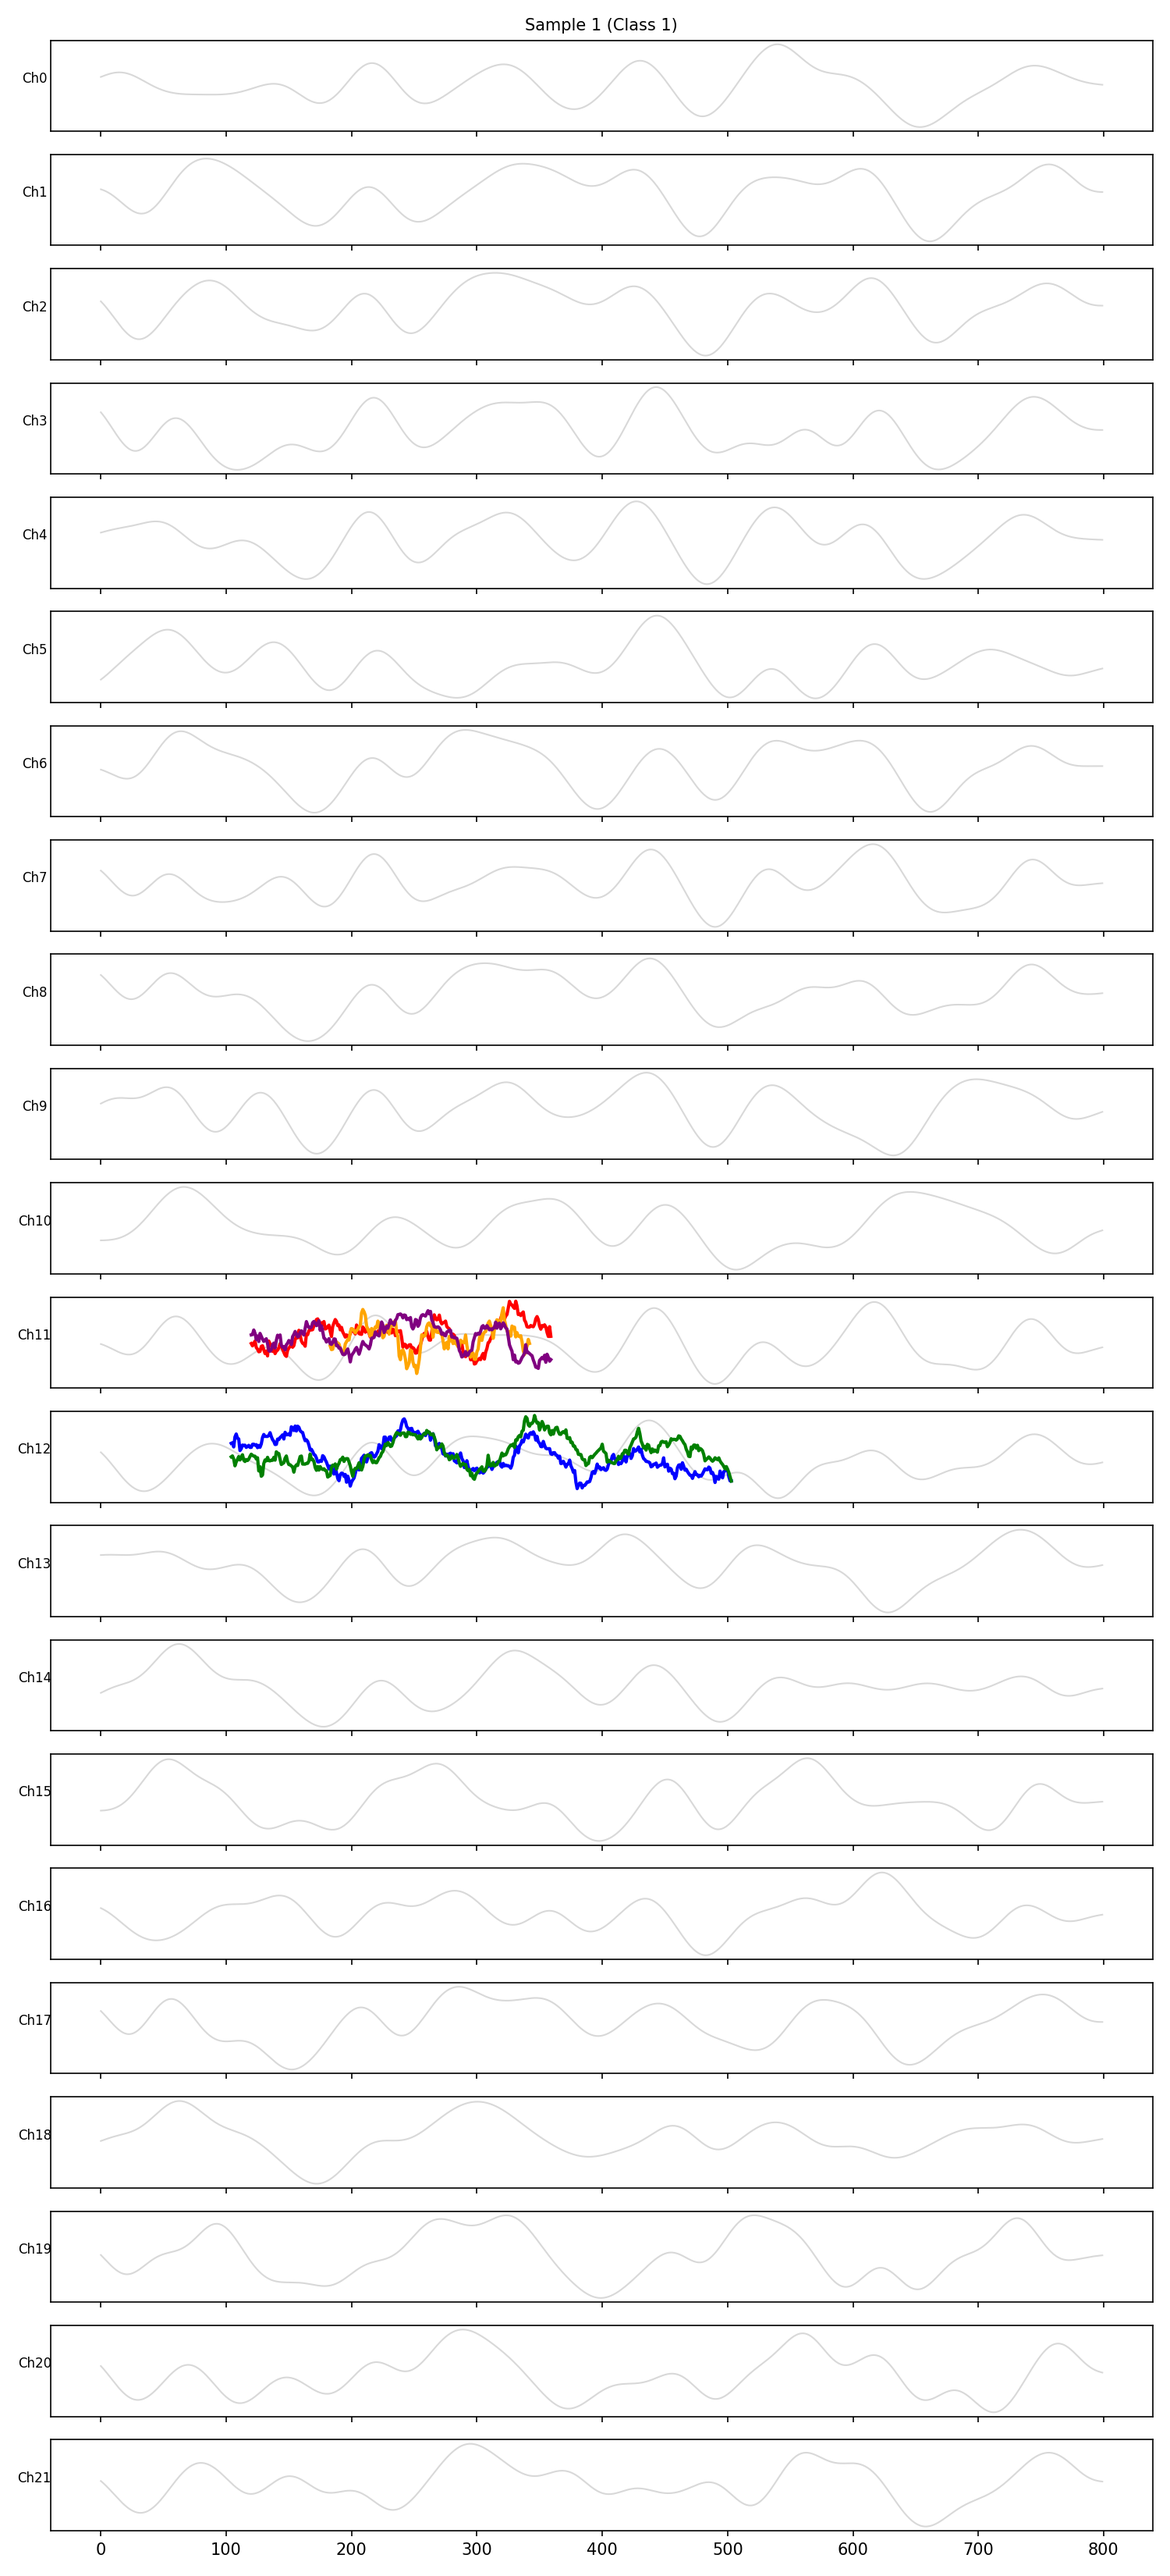
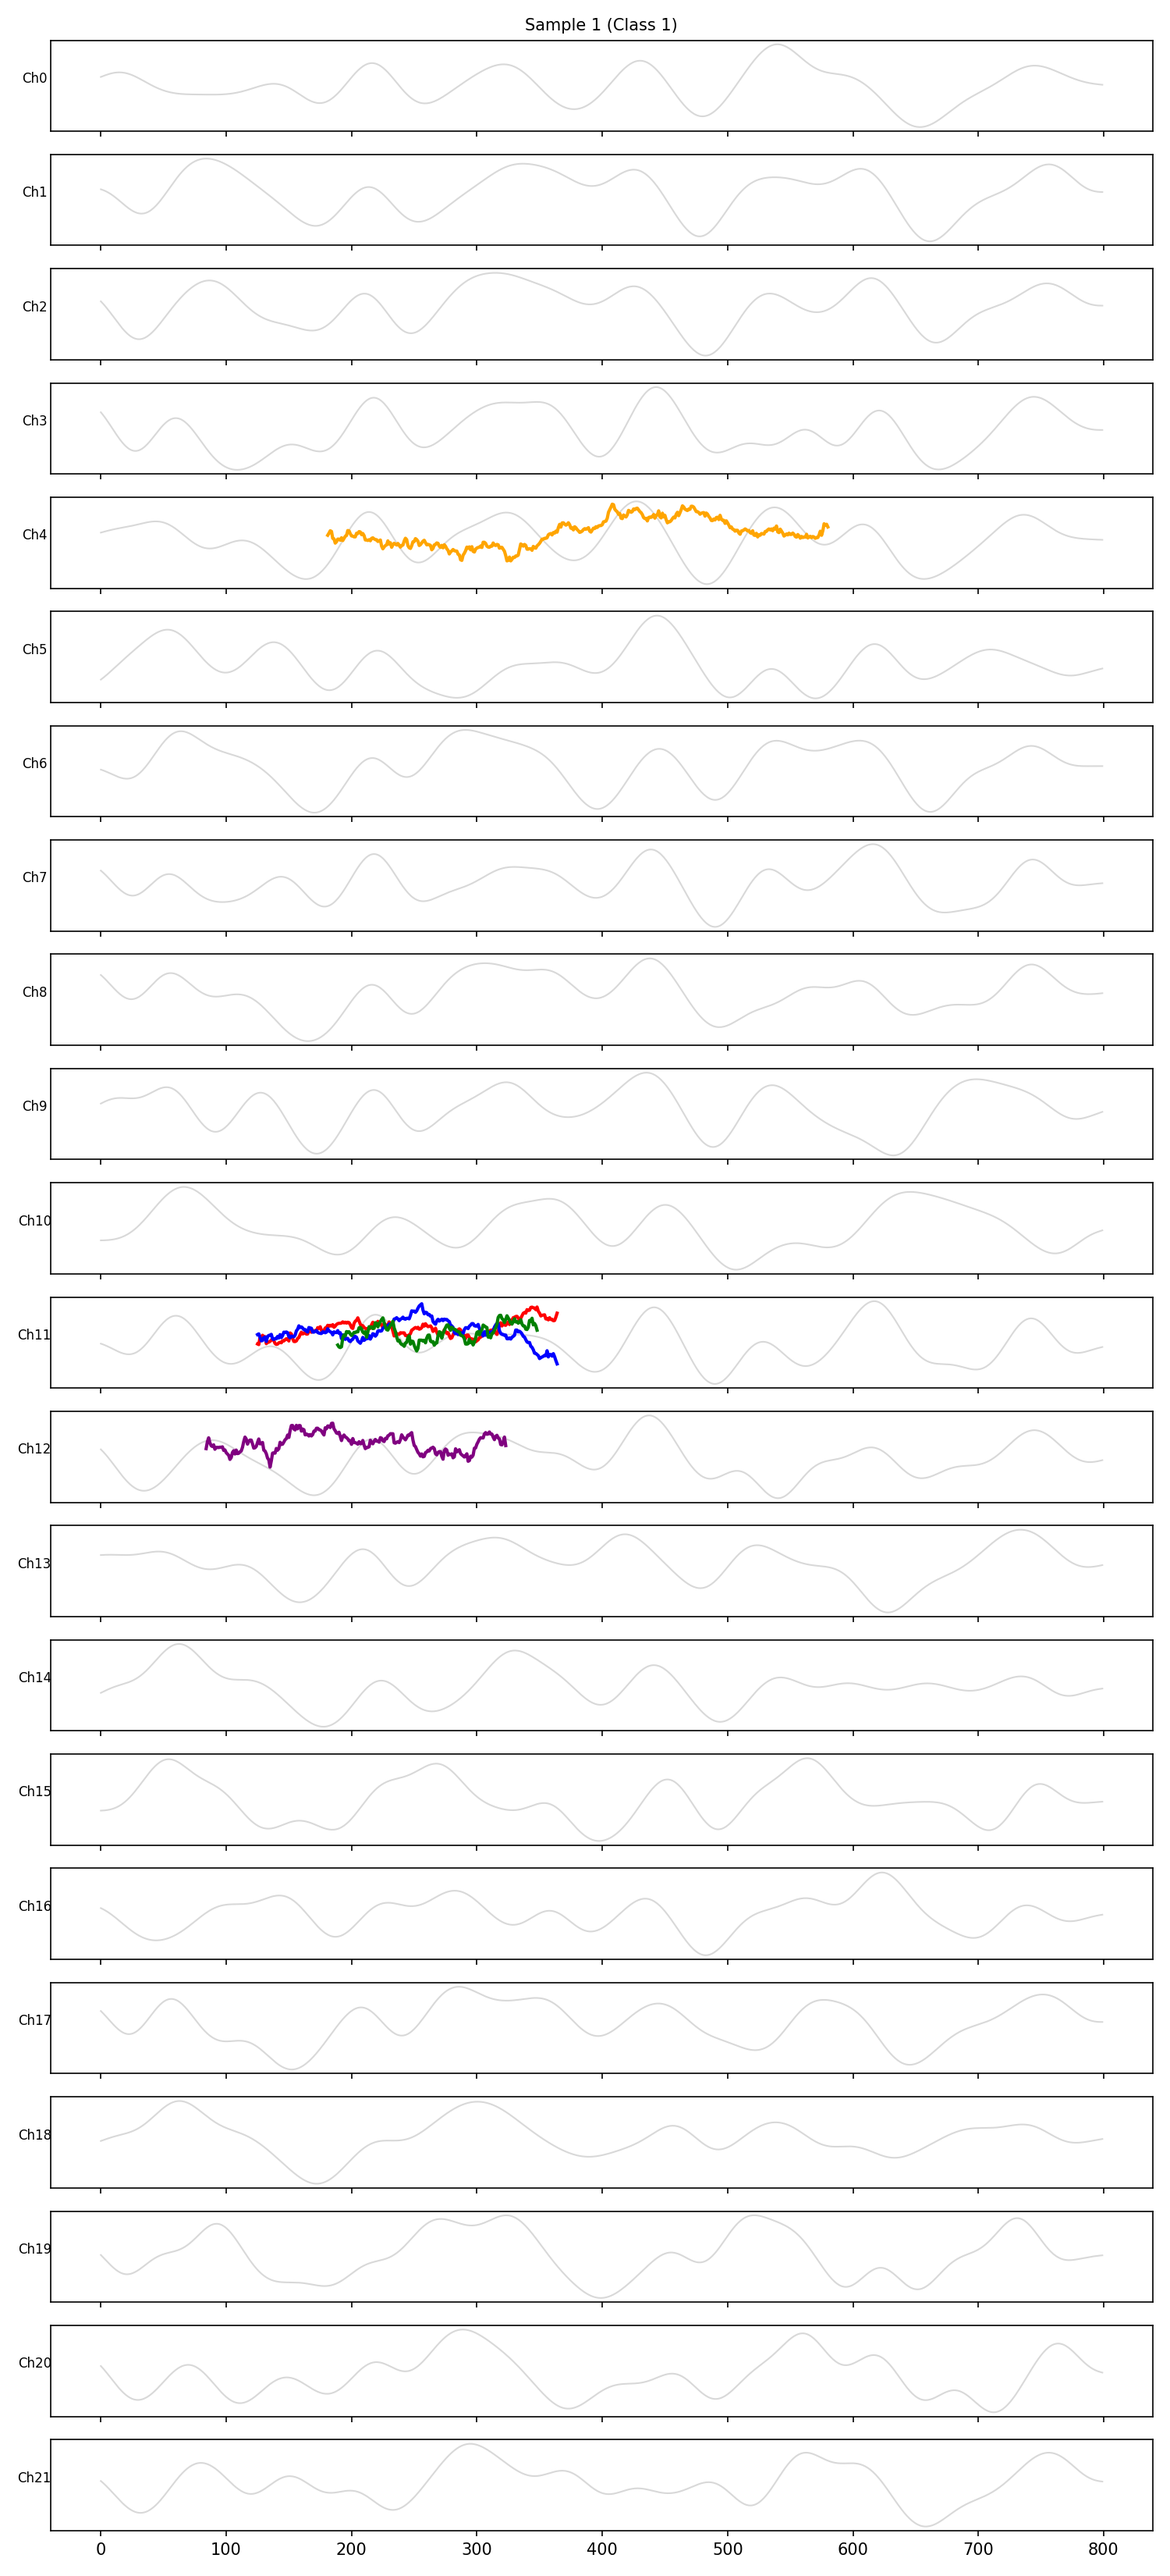
一个更合适的dataloader

Changed region(s): [[0.184, 0.4994, 0.6133, 0.593], [0.368, 0.5618, 0.4293, 0.593]]

diff --git a/dataloader.py b/dataloader.py
@@ -6,151 +6,194 @@ import warnings
 import logging
 
 warnings.filterwarnings('ignore')
+
+# 配置 Logger
+logging.basicConfig(level=logging.INFO, format='%(asctime)s - %(name)s - %(levelname)s - %(message)s')
 logger = logging.getLogger(__name__)
 
 
-def mean_std(train_data):
-    """Compute mean and std for normalization as in code segment 1."""
-    m_len = np.mean(train_data, axis=2)
-    mean = np.mean(m_len, axis=0)
-    s_len = np.std(train_data, axis=2)
-    std = np.max(s_len, axis=0)
+def compute_stats_channel_wise(train_data):
+    """
+    仅根据训练数据计算均值和标准差。
+    假设 train_data 形状为 (Samples, Time, Channels)
+    我们希望对每个 Channel 进行标准化，因此跨 Samples(0) 和 Time(1) 聚合。
+    """
+    # 均值 shape: (Channels,)
+    mean = np.mean(train_data, axis=(0, 1))
+    # 标准差 shape: (Channels,)
+    std = np.std(train_data, axis=(0, 1))
+
+    # 防止除以0，将极小的std替换为1
+    std[std < 1e-8] = 1.0
+
     return mean, std
 
 
-def mean_std_transform(data, mean, std):
-    """Apply mean-std normalization as in code segment 1."""
+def apply_normalization(data, mean, std):
+    """
+    应用标准化: (Data - Mean) / Std
+    利用广播机制 (Broadcasting) 自动处理维度。
+    Data: (N, T, C), Mean: (C,), Std: (C,)
+    """
     return (data - mean) / std
 
 
 def load(config):
     Data = {}
     fold_num = config['fold_num']
+    # 确保 fold_num 是 int
+    if fold_num is None:
+        raise ValueError("Config 中必须包含 'fold_num'")
+    fold_num = int(fold_num)
+
     problem = config['data_dir'].split('/')[-1]
+    # 文件名建议加上 fold 信息，避免不同 fold 覆盖同一文件
     npy_path = os.path.join(config['data_dir'], f"{problem}_n2_fold{fold_num}.npy")
 
-    # 检查是否已存在预处理数据
+    # --- 1. 检查是否存在预处理文件 ---
     if os.path.exists(npy_path):
-        logger.info("Loading preprocessed data ...")
+        logger.info(f"Loading preprocessed data from {npy_path} ...")
         Data_npy = np.load(npy_path, allow_pickle=True)
-        Data['max_len'] = Data_npy.item().get('max_len')
-        Data['X_train'] = Data_npy.item().get('X_train')
-        Data['y_train'] = Data_npy.item().get('y_train')
-        Data['X_val'] = Data_npy.item().get('X_val')
-        Data['y_val'] = Data_npy.item().get('y_val')
-        Data['X_test'] = Data_npy.item().get('X_test')
-        Data['y_test'] = Data_npy.item().get('y_test')
-        # if problem == 'PREP':
-        #     Data['X_train'] = Data['X_train'].transpose(0, 2, 1)
-        #     Data['X_val'] = Data['X_val'].transpose(0, 2, 1)
-        #     Data['X_test'] = Data['X_test'].transpose(0, 2, 1)
+        item = Data_npy.item()
 
-        logger.info(f"{len(Data['y_train'])} samples will be used for training")
-        logger.info(f"{len(Data['y_val'])} samples will be used for validation")
-        logger.info(f"{len(Data['y_test'])} samples will be used for testing")
+        Data['max_len'] = item.get('max_len')
+        Data['X_train'] = item.get('X_train')
+        Data['y_train'] = item.get('y_train')
+        Data['X_val'] = item.get('X_val')
+        Data['y_val'] = item.get('y_val')
+        Data['X_test'] = item.get('X_test')
+        Data['y_test'] = item.get('y_test')
+
+        # 兼容性加载（如果存在全量训练数据）
+        Data['All_train_data'] = item.get('All_train_data')
+        Data['All_train_label'] = item.get('All_train_label')
+
+        logger.info(f"Loaded: Train({len(Data['y_train'])}), Val({len(Data['y_val'])}), Test({len(Data['y_test'])})")
 
     else:
-        logger.info("Loading and preprocessing data ...")
-        # 扩大倍数   任务态VFT  n=2  静息态PREP n=4
-        n = 4
+        # --- 2. 加载原始 Excel 数据 ---
+        logger.info("Loading and preprocessing data from Excel files ...")
+
+        # 参数设置
+        n = 2  # 扩增倍数/降采样因子
         adhd_dir = os.path.join(config['data_dir'], "ADHD")
         hc_dir = os.path.join(config['data_dir'], "HC")
 
-        # 读取所有Excel文件
-        adhd_files = [os.path.join(adhd_dir, f) for f in os.listdir(adhd_dir) if f.endswith('.xlsx')]
-        hc_files = [os.path.join(hc_dir, f) for f in os.listdir(hc_dir) if f.endswith('.xlsx')]
+        # 读取文件列表
+        adhd_files = sorted([os.path.join(adhd_dir, f) for f in os.listdir(adhd_dir) if f.endswith('.xlsx')])
+        hc_files = sorted([os.path.join(hc_dir, f) for f in os.listdir(hc_dir) if f.endswith('.xlsx')])
 
-        # 加载数据并分配标签
         dataframes = []
         labels = []
-        group_ids = []  # NEW: 用于跟踪每个样本的组标识
+        group_ids = []  # 用于 GroupKFold，防止同一人数据泄露
 
-        # 处理 ADHD 数据 (label = 1)
+        # 加载 ADHD (Label=1)
         for idx, file in enumerate(adhd_files):
             df = pd.read_excel(file)
-            dataframes.append(df)
-            labels.append(1)  # ADHD标签为1
-            group_ids.append(idx)  # NEW: 为每个 ADHD 文件分配唯一 group_id
+            dataframes.append(df.values)  # 转为numpy array
+            labels.append(1)
+            group_ids.append(idx)  # 唯一ID
 
-        # 处理 HC 数据 (label = 0)
-        for idx, file in enumerate(hc_files, len(adhd_files)):  # NEW: 从 len(adhd_files) 开始继续编号
+        # 加载 HC (Label=0)
+        # Group ID 继续累加，不与 ADHD 重复
+        start_id = len(adhd_files)
+        for idx, file in enumerate(hc_files):
             df = pd.read_excel(file)
-            dataframes.append(df)
-            labels.append(0)  # HC标签为0
-            group_ids.append(idx)  # NEW: 为每个 HC 文件分配唯一 group_id
+            dataframes.append(df.values)
+            labels.append(0)
+            group_ids.append(start_id + idx)
 
-        # 转换为numpy数组
-        feature = np.array(dataframes)
+        # 转换为 numpy 格式
+        # 假设所有 excel 形状相同，或者这里需要 padding (目前代码假设形状一致)
+        feature_raw = np.array(dataframes)
+        # 当前 shape: (Samples, Time, Features)
+
         labels = np.array(labels)
-        group_ids = np.array(group_ids)  # NEW: 转换为 numpy 数组
-        logger.info(f"feature 原始shape：{feature.shape}")
+        group_ids = np.array(group_ids)
 
-        # 获取原始数据的形状
-        n_samples, n_time, n_features = feature.shape
+        logger.info(f"Raw feature shape: {feature_raw.shape}")
+        n_samples, n_time, n_features = feature_raw.shape
 
-        # 计算可被n整除的最大时间长度
+        # --- 3. 数据扩增 / 切分 ---
+        # 调整时间长度以适应 n
         n_time_adjusted = (n_time // n) * n
-        logger.info(f"调整后的时间维度长度: {n_time_adjusted}（原始: {n_time}）")
 
-        # 数据扩增：将时间维度分割为n份
         split_features = []
         split_labels = []
-        split_groups = []  # NEW: 用于存储扩展后的 group_ids
+        split_groups = []
+
         for i in range(n):
+            # 这里的逻辑是降采样 (Downsampling)
+            # 例如 n=2, 取 t=0,2,4... 和 t=1,3,5...
             indices = np.arange(i, n_time_adjusted, n)
-            split_data = feature[:, indices, :]
-            split_features.append(split_data)
+
+            sub_data = feature_raw[:, indices, :]
+            split_features.append(sub_data)
+
+            # 标签和组ID 复制一份
             split_labels.append(labels)
-            split_groups.append(group_ids)  # NEW: 扩展 group_ids，保持与样本对应
+            split_groups.append(group_ids)
 
-        # 合并分割后的特征和标签
-        feature = np.concatenate(split_features, axis=0)  # 形状变为 (n*n_samples, n_time//n, n_features)
-        label = np.concatenate(split_labels, axis=0)  # 形状变为 (n*n_samples,)
-        groups = np.concatenate(split_groups, axis=0)  # NEW: 形状变为 (n*n_samples,)
-        logger.info(f"feature 合并后shape：{feature.shape}")
+        # 合并扩增后的数据
+        feature = np.concatenate(split_features, axis=0)  # (Samples*n, Time/n, Features)
+        label = np.concatenate(split_labels, axis=0)
+        groups = np.concatenate(split_groups, axis=0)
 
-        # 数据标准化（使用代码段1的mean_std和mean_std_transform）
+        logger.info(f"Augmented feature shape: {feature.shape}")
+        Data['max_len'] = feature.shape[1]  # 记录时间维度长度
 
-        mean, std = mean_std(feature)
-        # mean = np.repeat(mean, feature.shape[1]).reshape(feature.shape[2], feature.shape[1])
-        # std = np.repeat(std, feature.shape[1]).reshape(feature.shape[2], feature.shape[1])
-        feature = mean_std_transform(feature, mean, std)
+        # --- 4. 数据集划分 (Split) ---
+        # 此时 feature shape: (N, T, C)
 
-
-        # 设置max_len
-        Data['max_len'] = feature.shape[1]  # 时间维度长度
-
-        feature = feature.transpose(0, 2, 1)
-
-        # 先将数据分为 train+val（80%）和 test（20%）
-        gss = GroupShuffleSplit(test_size=0.2, random_state=42)
+        # Step A: 划分 Train+Val (80%) 和 Test (20%)
+        # random_state 固定为 42，确保不同 Fold 下，测试集是同一个，保证公平
+        gss = GroupShuffleSplit(n_splits=1, test_size=0.2, random_state=42)
         train_val_idx, test_idx = next(gss.split(feature, label, groups))
+
         X_train_val = feature[train_val_idx]
         y_train_val = label[train_val_idx]
         groups_train_val = groups[train_val_idx]
+
         X_test = feature[test_idx]
         y_test = label[test_idx]
 
-        # 对 train+val 进行 5 折交叉验证
+        # Step B: 对 Train+Val 进行 5折交叉验证，划分出 Train 和 Val
+        # 注意：这里不需要 random_state 固定，GroupKFold 是确定性的
         gkf = GroupKFold(n_splits=5)
-        fold_indices = list(gkf.split(X_train_val, y_train_val, groups_train_val))
+        folds = list(gkf.split(X_train_val, y_train_val, groups_train_val))
 
-        # NEW: 验证 fold_num 是否有效
-        if fold_num is None or fold_num not in range(5):
-            raise ValueError("fold_num 必须为 0 到 4 的整数")
+        if fold_num >= 5:
+            raise ValueError("fold_num cannot exceed 4 for 5-fold CV")
 
-        # 选择指定折的训练和验证索引
-        train_idx, val_idx = fold_indices[fold_num]
+        train_idx, val_idx = folds[fold_num]
+
         X_train = X_train_val[train_idx]
         y_train = y_train_val[train_idx]
+
         X_val = X_train_val[val_idx]
         y_val = y_train_val[val_idx]
 
-        # 打印当前折的结果
-        print(f"\n=== 第 {fold_num} 折 ===")
-        print(f"训练集大小: {X_train.shape[0]} 样本, 组: {np.unique(groups_train_val[train_idx])}")
-        print(f"验证集大小: {X_val.shape[0]} 样本, 组: {np.unique(groups_train_val[val_idx])}")
+        logger.info(f"Fold {fold_num} Split:")
+        logger.info(f"  Train: {X_train.shape[0]} (Groups: {len(np.unique(groups_train_val[train_idx]))})")
+        logger.info(f"  Val:   {X_val.shape[0]} (Groups: {len(np.unique(groups_train_val[val_idx]))})")
+        logger.info(f"  Test:  {X_test.shape[0]}")
 
+        # --- 5. 标准化 (Normalization) ---
+        # 【重要】仅在 X_train 上计算均值和方差，避免数据泄露
+        mean_vec, std_vec = compute_stats_channel_wise(X_train)
+
+        # 应用到所有数据集
+        X_train = apply_normalization(X_train, mean_vec, std_vec)
+        X_val = apply_normalization(X_val, mean_vec, std_vec)
+        X_test = apply_normalization(X_test, mean_vec, std_vec)
+
+        # --- 6. 维度转换 (Transpose) ---
+        # 从 (N, T, C) -> (N, C, T) 以适应大多数深度学习模型 (如 1D-CNN)
+        X_train = X_train.transpose(0, 2, 1)
+        X_val = X_val.transpose(0, 2, 1)
+        X_test = X_test.transpose(0, 2, 1)
+
+        # --- 7. 组装与保存 ---
         Data['X_train'] = X_train
         Data['y_train'] = y_train
         Data['X_val'] = X_val
@@ -158,19 +201,12 @@ def load(config):
         Data['X_test'] = X_test
         Data['y_test'] = y_test
 
+        # 如果需要合并的训练集 (用于某些特殊的后续处理，通常不需要)
+        Data['All_train_data'] = np.concatenate([X_train, X_val], axis=0)
+        Data['All_train_label'] = np.concatenate([y_train, y_val], axis=0)
 
-
-        # 合并训练集和验证集的特征
-        Data['All_train_data'] = np.concatenate([Data['X_train'], Data['X_val']], axis=0)
-
-        # 合并训练集和验证集的标签
-        Data['All_train_label'] = np.concatenate([Data['y_train'], Data['y_val']], axis=0)
-
-        logger.info(f"{len(y_train)} samples will be used for training")
-        logger.info(f"{len(y_val)} samples will be used for validation")
-        #logger.info(f"{len(labels[test_idx])} samples will be used for testing")
-
-        # 保存预处理数据
+        # 保存为 .npy
         np.save(npy_path, Data, allow_pickle=True)
+        logger.info(f"Data saved to {npy_path}")
 
     return Data
